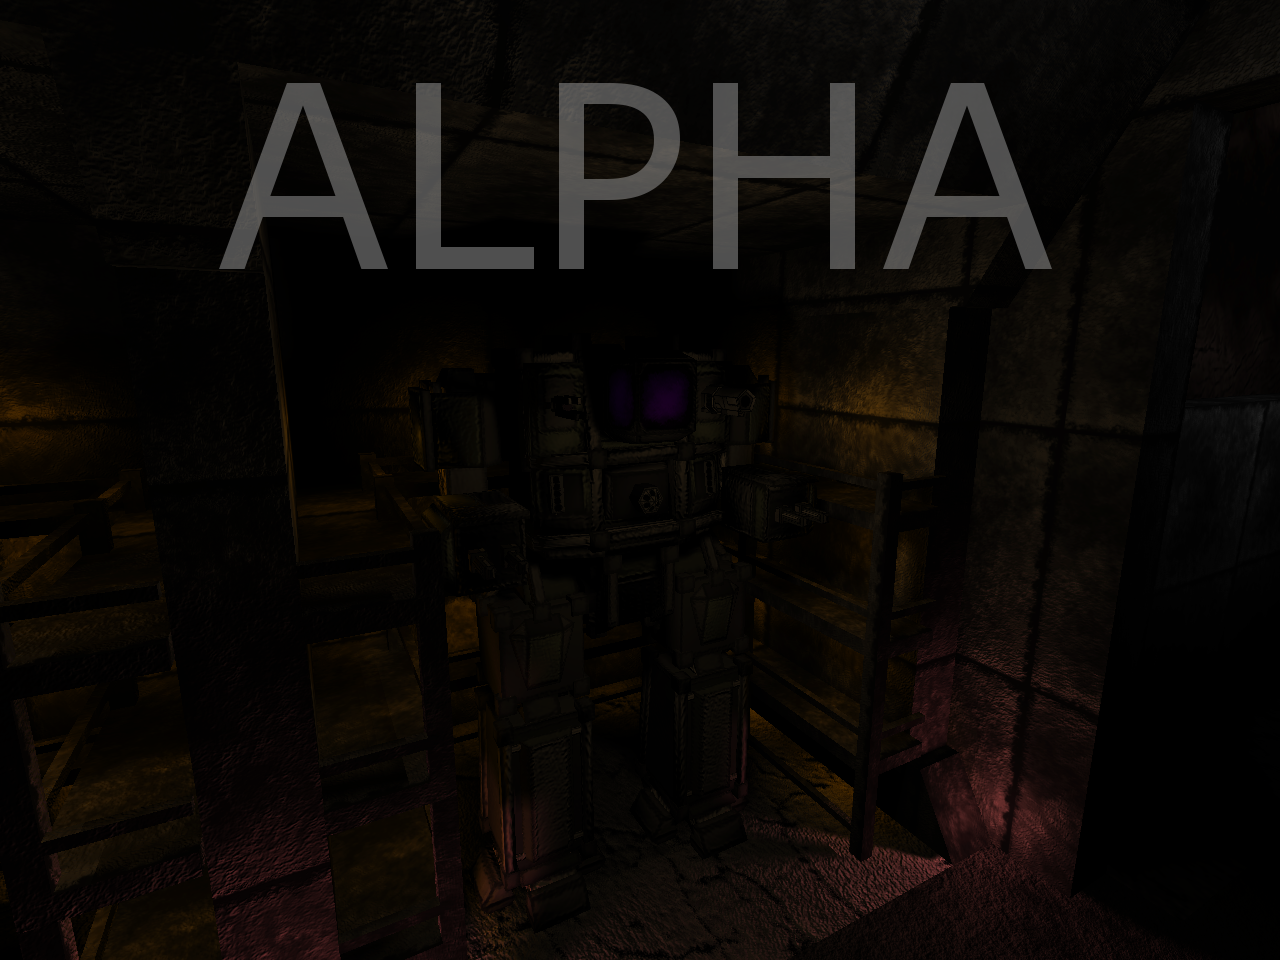
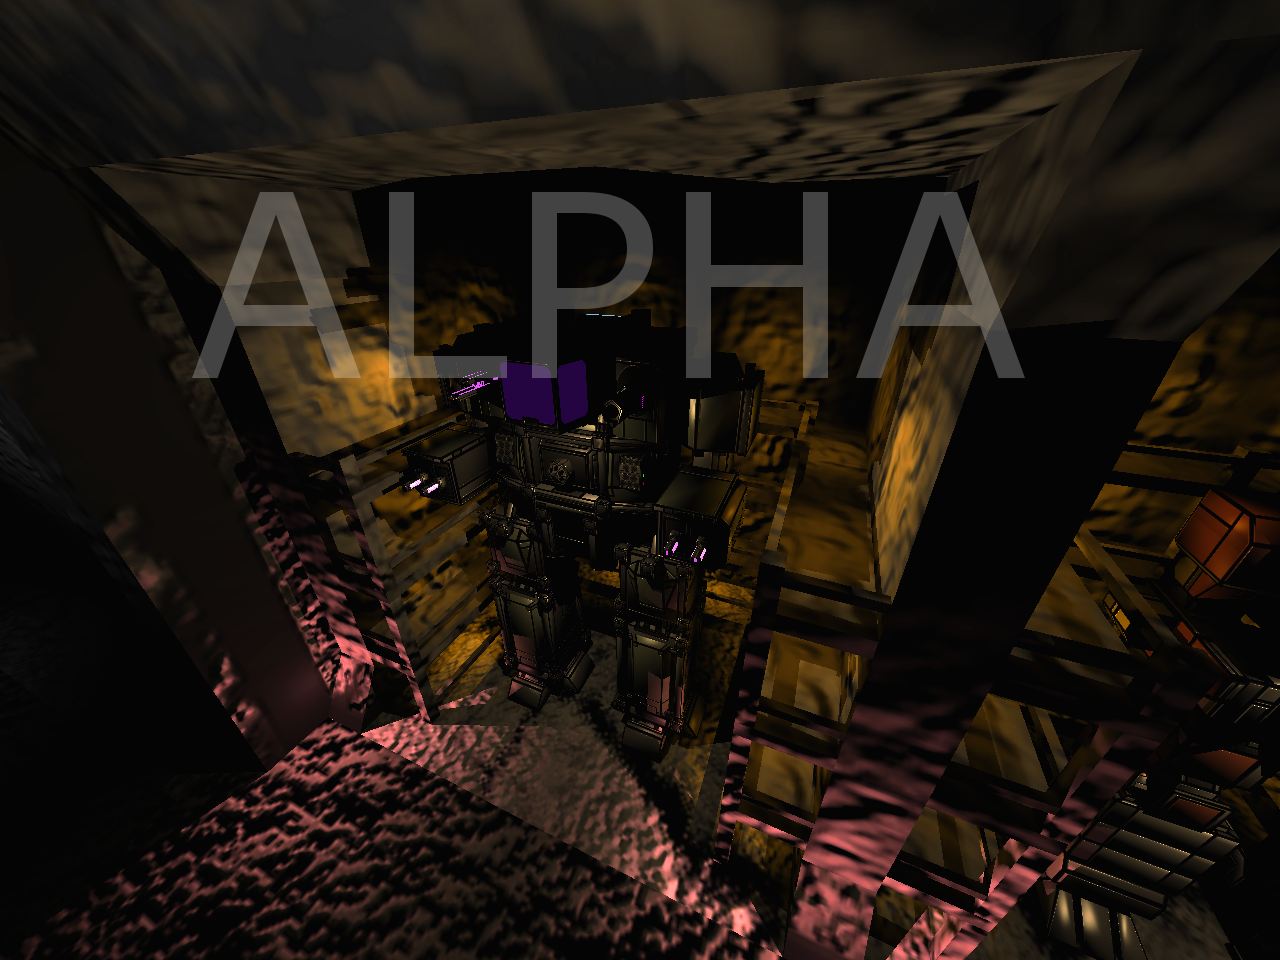
+ new images + new download link

diff --git a/index.html b/index.html
@@ -27,7 +27,7 @@
         <h3><b>Current News</b></h3>
         <p>
           Dive into the gritty and action-packed world of <i>battleMETAL</i>.
-          Alpha 2.5 has been released!
+          Alpha 3.7 has been released!
         </p>
         <p>Scroll down to the <b><i>Downloads</i></b> tab for more info.</p>
       </div>
@@ -109,7 +109,7 @@
                 </p>
                 <h4><a href="http://www.roohrorbitalyards.com/GaragePage.html">RoohrOrbitalYards</a></h4><p></p>
               </div>
-              <div class="col-sm-9"><img class="d-block w-100 img-responsive" src="img/oldschool.png" alt=""></div>
+              <div class="col-sm-9"><img class="d-block w-100 img-responsive" src="img/oldschool2.png" alt=""></div>
             </div>
           </div>
         </div>
@@ -192,9 +192,9 @@
           <div class="col">
             <h3><b>Latest Build</b></h3>
             <p>
-            <h4>Current:  <a href="download/battleMETAL_Alpha_Release_2.6.zip"><b>Alpha 0.2.6</b></a></h4>
+            <h4>Current:  <a href="download/battleMETAL_Alpha_Release_3.7.zip"><b>Alpha 0.2.6</b></a></h4>
             </p>
-            <img class="img-fluid" src="img/base.png" alt="">
+            <img class="img-fluid" src="img/base2.png" alt="">
           </div>
         </div>
         <!-- MEDIA TAB -->
